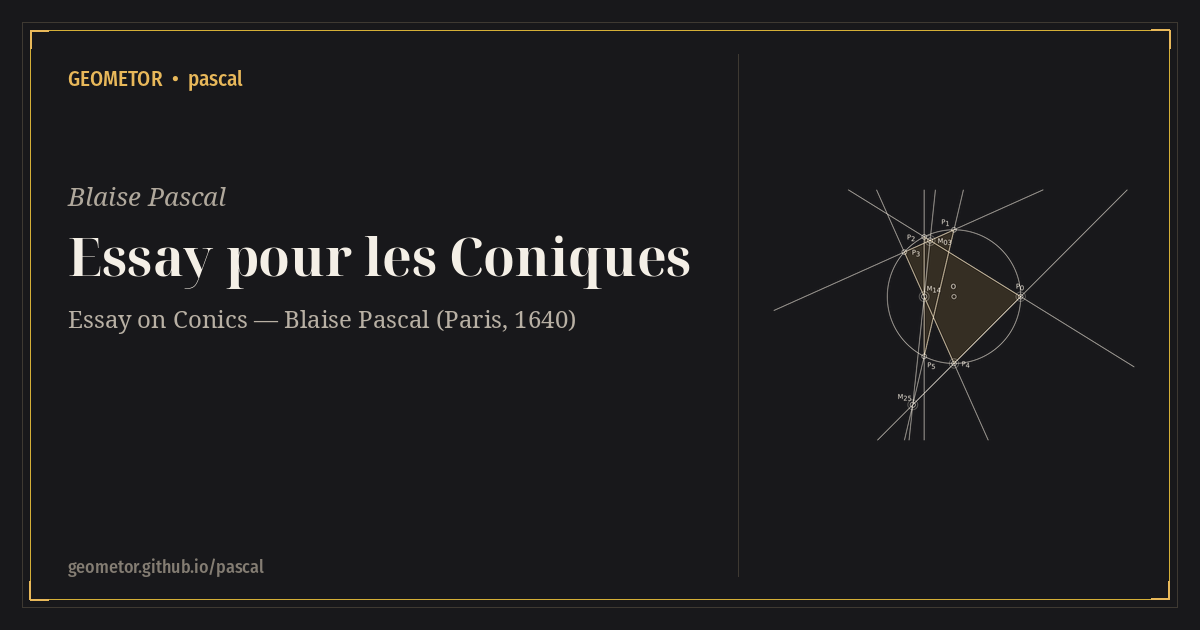
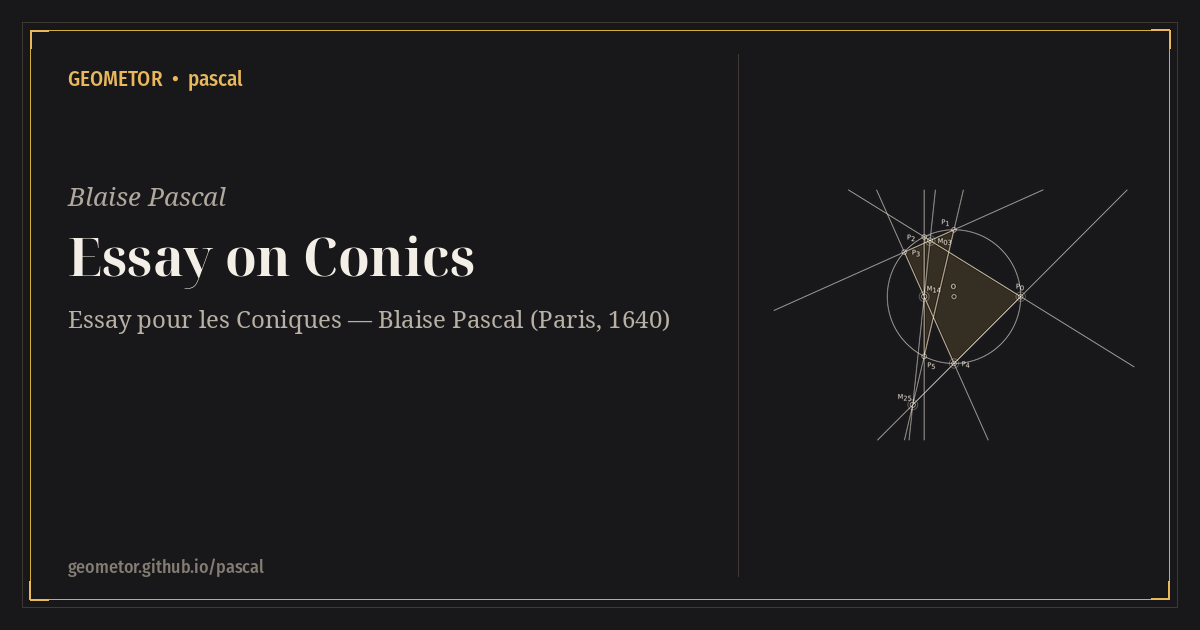
docs: add construction hero images, elevate English titles with native title tracks, and standardize track menus

Changed region(s): [[0.185, 0.3619, 0.5858, 0.4524], [0.1233, 0.4825, 0.555, 0.5429]]

diff --git a/docsrc/essay_coniques_1640/index.rst b/docsrc/essay_coniques_1640/index.rst
@@ -1,23 +1,25 @@
 :navigation: header
 :order: 1
 :type: book
-:nav_title: Essay pour les Coniques
-:breadcrumb_title: Essay pour les Coniques
+:nav_title: Essay on Conics
+:breadcrumb_title: Essay on Conics
 :layout: book
-:book_title: Essay pour les Coniques
-:book_subtitle: Essay on Conics — Blaise Pascal (Paris, 1640)
+:title: Essay on Conics
+:book_title: Essay on Conics
+:book_subtitle: Essay pour les Coniques — Blaise Pascal (Paris, 1640)
 :author: Blaise Pascal
 :year: 1640
+:tracks: English: index | French: title-fr
 :excerpt: Pascal's 1640 broadside announcing the Mystic Hexagram theorem for any conic section, foundational projective definitions, and universal projective invariance.
 
 .. _essay-coniques-1640-index:
 .. _essay_coniques_1640-index:
 
-=======================
-Essay pour les Coniques
-=======================
+===============
+Essay on Conics
+===============
 
-.. rubric:: *Essay on Conics* — Blaise Pascal (Paris, February 1640)
+.. rubric:: *Essay pour les Coniques* — Blaise Pascal (Paris, February 1640)
 
 .. container:: title-page
 
@@ -40,9 +42,9 @@ Table of Contents
    * - Division
      - Description & Theorems
      - Parallel Tracks
-   * - **Essay pour les Coniques** *(1640)*
+   * - **Essay on Conics** *(1640)*
      - Definitions I–III (*ordonnances de lignes*, conics, straight line), Lemmas I–II (harmonic & projective collineation), **Lemma III (The Mystic Hexagram / Pascal's Theorem)**, and Conclusion acknowledging Girard Desargues.
-     - :doc:`EN <essay-coniques-en>` · :doc:`FR <essay-coniques-fr>` · :doc:`Summary <essay-coniques-summary>` · :doc:`Notes <essay-coniques-notes>`
+     - :doc:`English <essay-coniques-en>` · :doc:`French <essay-coniques-fr>` · :doc:`Summary <essay-coniques-summary>` · :doc:`Notes <essay-coniques-notes>`
 
 Editorial & Historical Provenance
 ----------------------------------
@@ -68,3 +70,10 @@ Scholarly Apparatus
    essay-coniques-fr
    essay-coniques-summary
    essay-coniques-notes
+
+.. toctree::
+   :maxdepth: 1
+   :hidden:
+   :caption: Title Pages
+
+   title-fr

diff --git a/docsrc/essay_coniques_1640/title-fr.rst b/docsrc/essay_coniques_1640/title-fr.rst
@@ -1,0 +1,40 @@
+:type: book_title
+:layout: book
+:title: Essay pour les Coniques
+:book_title: Essay pour les Coniques
+:book_subtitle: Par B. P. — A Paris, M. DC. XL.
+:author: Blaise Pascal
+:toc_label: Table des matières
+:persons_label: Index des personnes
+:bibliography_label: Bibliographie
+:glossary_label: Glossaire
+:tracks: English: index | French: title-fr
+
+.. _essay-coniques-1640-title-fr:
+
+=======================
+Essay pour les Coniques
+=======================
+
+.. rubric:: Par B. P. — A Paris, M. DC. XL. (février 1640)
+
+.. container:: title-page
+
+   | **Auteur :** :person:`Blaise Pascal <pascal>` (1623–1662)
+   | **Imprimeur / Format :** Placard in-folio, Paris, février 1640
+   | **Texte critique :** Léon Brunschvicg & Pierre Boutroux (*Œuvres de Blaise Pascal*, 1908/1923)
+   | **Modèles symboliques :** GEOMETOR (arithmétique projective exacte sur $\mathbb{Q}$ et $\mathbb{Q}(\phi)$)
+
+----
+
+Table des matières
+------------------
+
+* **Essay pour les Coniques** *(1640)* — :doc:`French <essay-coniques-fr>` · :doc:`English <essay-coniques-en>` · :doc:`Summary <essay-coniques-summary>` · :doc:`Notes <essay-coniques-notes>`
+
+Apparat critique
+----------------
+
+* :doc:`/persons`
+* :doc:`/bibliography`
+* :doc:`/glossary`

diff --git a/README.rst b/README.rst
@@ -3,6 +3,11 @@ GEOMETOR • pascal
 
 **Visit the Online Archive:** https://geometor.github.io/pascal/
 
+.. image:: docsrc/_static/constructions/golden_pascal.svg
+   :alt: GEOMETOR • pascal featured geometric construction
+   :target: https://geometor.github.io/pascal/
+   :align: center
+
 **Blaise Pascal • Essay pour les Coniques • semantic digital archive**
 
 Mission
@@ -13,7 +18,7 @@ Mission
 Books in This Archive
 ---------------------
 
-- **`Essay pour les Coniques <https://geometor.github.io/pascal/essay_coniques_1640/>`_** — Pascal's landmark broadsheet introducing the *hexagrammum mysticum* and the foundations of modern projective geometry (Paris, 1640).
+- **`Essay on Conics <https://geometor.github.io/pascal/essay_coniques_1640/>`_** — *Essay pour les Coniques* (Paris, 1640), Pascal's landmark broadsheet introducing the *hexagrammum mysticum* and the foundations of modern projective geometry.
 
 Repository Contents
 -------------------
